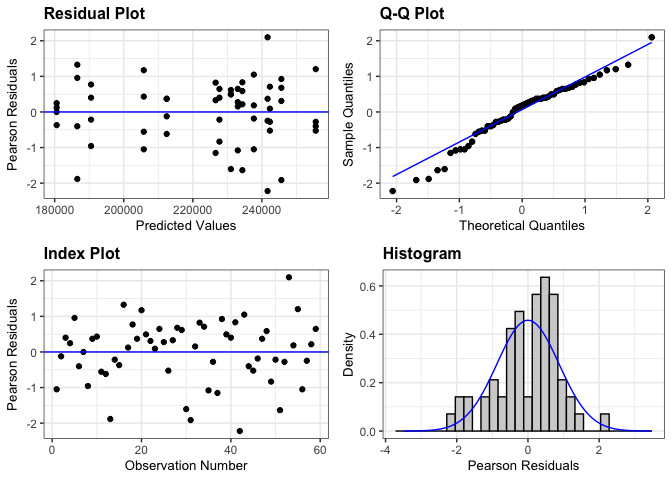
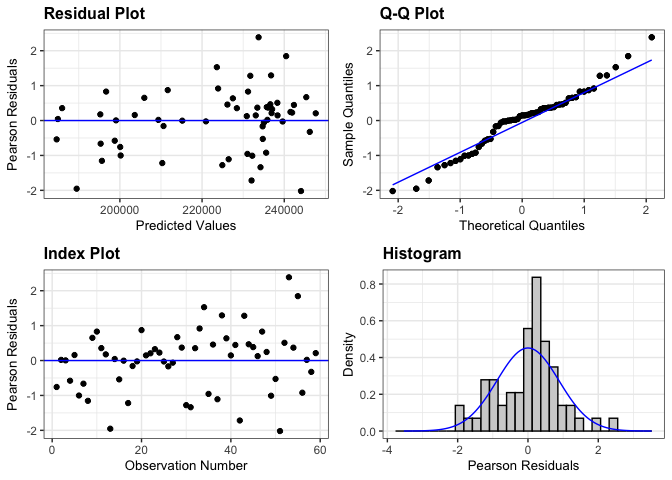
bean_100_weight fix

diff --git a/rmarkdowns/bean_population.md b/rmarkdowns/bean_population.md
@@ -32,8 +32,8 @@ library(ggResidpanel) ##install.packages("ggResidpanel")
 #library(car)
 #library(TMB)  ##install.packages("TMB")
 #library(glmmTMB)  ##install.packages("glmmTMB")
-#library(DHARMa)  ##install.packages("DHARMa")
-
+library(DHARMa)  ##install.packages("DHARMa")
+library(performance) ##install.packages("performance")
 #Load Functions
 MeanPlusSe<-function(x) mean(x)+plotrix::std.error(x)
 
@@ -107,16 +107,28 @@ be random and that post-hoc comparisons should use TUKEY rather the
 Fischer. Fisher is bogus apparently.
 
 ``` r
-random <- lmer(bean_population_acre  ~ location+weed_control + location:weed_control +(1|location:block) , data = bean_population_clean)
-```
+random <- lmer(bean_population_acre  ~ weed_control+(1|location:block) , data = bean_population_clean)
 
-    ## boundary (singular) fit: see help('isSingular')
-
-``` r
 resid_panel(random)
 ```
 
 ![](bean_population_files/figure-gfm/unnamed-chunk-4-1.png)<!-- -->
+
+``` r
+simulateResiduals(random,plot = TRUE) # Residuals and normality look good
+```
+
+![](bean_population_files/figure-gfm/unnamed-chunk-4-2.png)<!-- -->
+
+    ## Object of Class DHARMa with simulated residuals based on 250 simulations with refit = FALSE . See ?DHARMa::simulateResiduals for help. 
+    ##  
+    ## Scaled residual values: 0.092 0.224 0.26 0.152 0.264 0.048 0.096 0.036 0.38 0.428 0.152 0.18 0.004 0.12 0.044 0.368 0.136 0.308 0.384 0.66 ...
+
+``` r
+check_model(random)
+```
+
+![](bean_population_files/figure-gfm/unnamed-chunk-4-3.png)<!-- -->
 
 br\>
 
@@ -128,11 +140,9 @@ random |>
   kable()  
 ```
 
-|     | model term            | df1 |   df2 | F.ratio |   p.value |
-|:----|:----------------------|----:|------:|--------:|----------:|
-| 1   | location              |   2 |  8.64 |  25.795 | 0.0002276 |
-| 3   | weed_control          |   4 | 35.04 |   0.547 | 0.7024482 |
-| 2   | location:weed_control |   8 | 35.04 |   1.232 | 0.3097339 |
+| model term   | df1 | df2 | F.ratio |   p.value |
+|:-------------|----:|----:|--------:|----------:|
+| weed_control |   4 |  43 |   0.478 | 0.7517162 |
 
 ## Means comparison
 
@@ -144,53 +154,37 @@ pairwise_comparisons_weed_control<- pairs(means_weed_control)
 kable(head(pairwise_comparisons_weed_control))
 ```
 
-| contrast  |    estimate |       SE |       df |    t.ratio |   p.value |
-|:----------|------------:|---------:|---------:|-----------:|----------:|
-| RIC - RIM |   5458.4773 | 9043.958 | 35.78415 |  0.6035496 | 0.9916907 |
-| RIC - RNO |   4868.3716 | 8781.272 | 35.03704 |  0.5544039 | 0.9947287 |
-| RIC - TIC |  -5753.5301 | 8781.272 | 35.03704 | -0.6552046 | 0.9872427 |
-| RIC - TIM |   3540.6339 | 8781.272 | 35.03704 |  0.4032028 | 0.9990995 |
-| RIM - RNO |   -590.1057 | 9043.958 | 35.78415 | -0.0652486 | 1.0000000 |
-| RIM - TIC | -11212.0074 | 9043.958 | 35.78415 | -1.2397235 | 0.7801963 |
+| contrast  |   estimate |       SE |       df |    t.ratio |   p.value |
+|:----------|-----------:|---------:|---------:|-----------:|----------:|
+| RIC - RIM |   4563.037 | 9324.546 | 43.20640 |  0.4893575 | 0.9973097 |
+| RIC - RNO |   4868.372 | 9076.962 | 43.00195 |  0.5363437 | 0.9955533 |
+| RIC - TIC |  -5753.530 | 9076.962 | 43.00195 | -0.6338607 | 0.9891558 |
+| RIC - TIM |   3540.634 | 9076.962 | 43.00195 |  0.3900682 | 0.9992475 |
+| RIM - RNO |    305.335 | 9324.546 | 43.20640 |  0.0327453 | 1.0000000 |
+| RIM - TIC | -10316.567 | 9324.546 | 43.20640 | -1.1063882 | 0.8543955 |
 
-<br> \### Location (S)
-
-``` r
-means_location <- emmeans(random, ~  location)
-pairwise_comparisons_location<- pairs(means_location) 
-kable(head(pairwise_comparisons_location))
-```
-
-| contrast                      |  estimate |       SE |       df |   t.ratio |   p.value |
-|:------------------------------|----------:|---------:|---------:|----------:|----------:|
-| field O2 east - field O2 west |  3673.408 | 6924.747 | 9.103669 | 0.5304753 | 0.9399834 |
-| field O2 east - field x       | 44213.666 | 6801.944 | 8.639269 | 6.5001511 | 0.0004016 |
-| field O2 west - field x       | 40540.258 | 6924.747 | 9.103669 | 5.8544027 | 0.0006955 |
+<br>
 
 ## Tukey compact letter display
 
-### Location (S)
+### Weed-control (Not significant)
 
 ``` r
 #location
-cld_location_tukey <-cld(emmeans(random, ~  location , type = "response"), Letters = letters, sort = TRUE, reversed=TRUE)
+cld_weed_control_tukey <-cld(emmeans(random, ~ weed_control , type = "response"), Letters = letters, sort = TRUE, reversed=TRUE)
+cld_weed_control_tukey
 ```
 
-    ## NOTE: Results may be misleading due to involvement in interactions
-
-``` r
-cld_location_tukey
-```
-
-    ##  location      emmean   SE   df lower.CL upper.CL .group
-    ##  field O2 east 239391 4810 8.64   228441   250341  a    
-    ##  field O2 west 235718 4980 9.57   224550   246886  a    
-    ##  field x       195177 4810 8.64   184228   206127   b   
+    ##  weed_control emmean   SE   df lower.CL upper.CL .group
+    ##  TIC          230805 8690 29.8   213047   248563  a    
+    ##  RIC          225052 8690 29.8   207293   242810  a    
+    ##  TIM          221511 8690 29.8   203753   239269  a    
+    ##  RIM          220489 8950 32.0   202256   238721  a    
+    ##  RNO          220183 8690 29.8   202425   237941  a    
     ## 
-    ## Results are averaged over the levels of: weed_control 
     ## Degrees-of-freedom method: kenward-roger 
     ## Confidence level used: 0.95 
-    ## P value adjustment: tukey method for comparing a family of 3 estimates 
+    ## P value adjustment: tukey method for comparing a family of 5 estimates 
     ## significance level used: alpha = 0.05 
     ## NOTE: If two or more means share the same grouping symbol,
     ##       then we cannot show them to be different.
@@ -198,36 +192,42 @@ cld_location_tukey
 
 <br> \# Figures
 
-## Location (S)
+## Weed-control (Not significant)
 
 ``` r
 bean_population_clean |> 
-  left_join(cld_location_tukey) |> 
-  ggplot(aes(x = location, y = bean_population_acre, fill = location)) +
+  left_join(cld_weed_control_tukey) |> 
+  ggplot(aes(x = factor(weed_control, levels = c("RNO", "RIM", "RIC", "TIM", "TIC")), y = bean_population_acre, fill = weed_control)) +
   stat_summary(geom = "bar", fun = "mean", width = 0.7) +
   stat_summary(geom = "errorbar", fun.data = "mean_se", width = 0.2) +
-  stat_summary(geom="text", fun = "MeanPlusSe", aes(label= trimws(.group)),size=6.5,vjust=-0.5) +
+  #stat_summary(geom="text", fun = "MeanPlusSe", aes(label= trimws(.group)),size=6.5,vjust=-0.5) +
   
   labs(
-    x = "Location",
+    x = "Interrow weed control",
     y = expression("Soybean population" ~ (plants * "/" * a)),
-    title = str_c("The influence of location on soybean population"),
-    subtitle = expression(italic("P < 0.005"))) +
-   scale_x_discrete(labels = c("Field O2 East ",
-                              "Field O2 West",
-                              "Field X")) +
+    title = str_c("The influence of interrow weed control on soybean population"),
+    subtitle = expression(italic("Not significant"))) +
+   scale_x_discrete(labels = c("Rolled,\nno additional\nweed control",
+                              "Rolled,\ninterrow\nmowing",
+                              "Rolled,\nhigh-residue\ncultivation",
+                              "Tilled,\ninterrow\nmowing",
+                          "Tilled,\nstandard\ncultivation")) +
   scale_y_continuous(labels = scales::label_comma(),expand = expansion(mult = c(0.05, 0.3))) +
   scale_fill_viridis(discrete = TRUE, option = "D", direction = -1, end = 0.9, begin = 0.1) +
    theme_bw() +
   theme(
     legend.position = "none",
     strip.background = element_blank(),
-    strip.text = element_text(face = "bold", size = 12)
+    strip.text = element_text(face = "bold", size = 12),
+    axis.title = element_text(size = 20),  # Increase font size of axis titles
+    axis.text = element_text(size = 16),   # Increase font size of axis labels
+    plot.title = element_text(size = 22, face = "bold"),  # Increase font size of title
+    plot.subtitle = element_text(size = 18, face = "italic")  # Increase font size of subtitle
   )
 ```
 
-![](bean_population_files/figure-gfm/unnamed-chunk-9-1.png)<!-- -->
+![](bean_population_files/figure-gfm/unnamed-chunk-8-1.png)<!-- -->
 
 ``` r
-ggsave("bean_population_location_a.png", width = 8, height = 6, dpi = 300)
+ggsave("bean_population_weed_control_a.png", width = 10, height = 6, dpi = 300)
 ```
